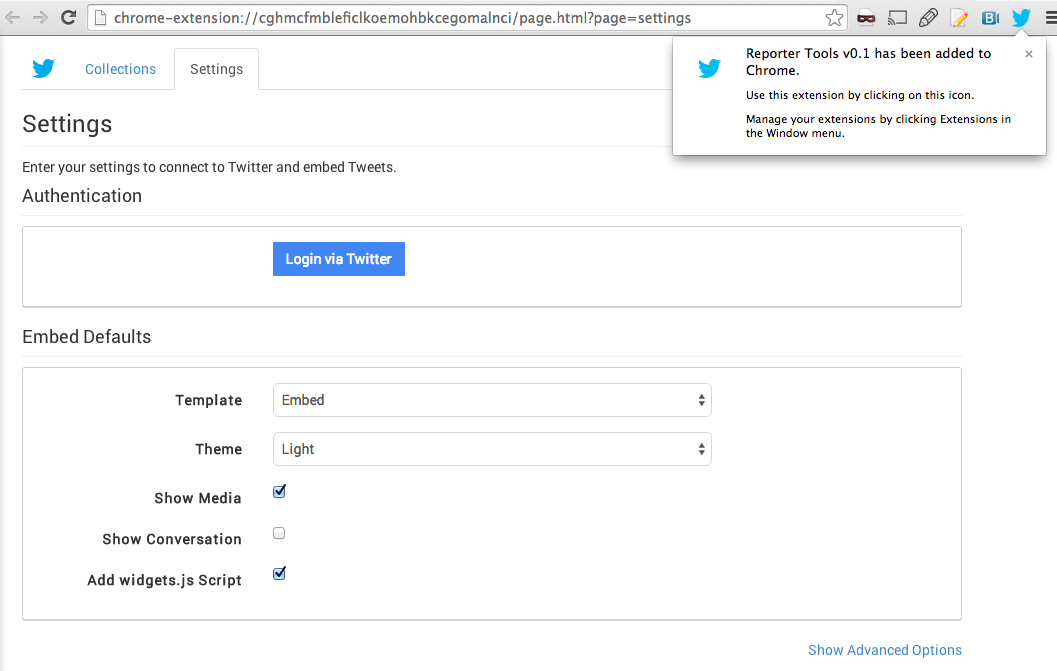
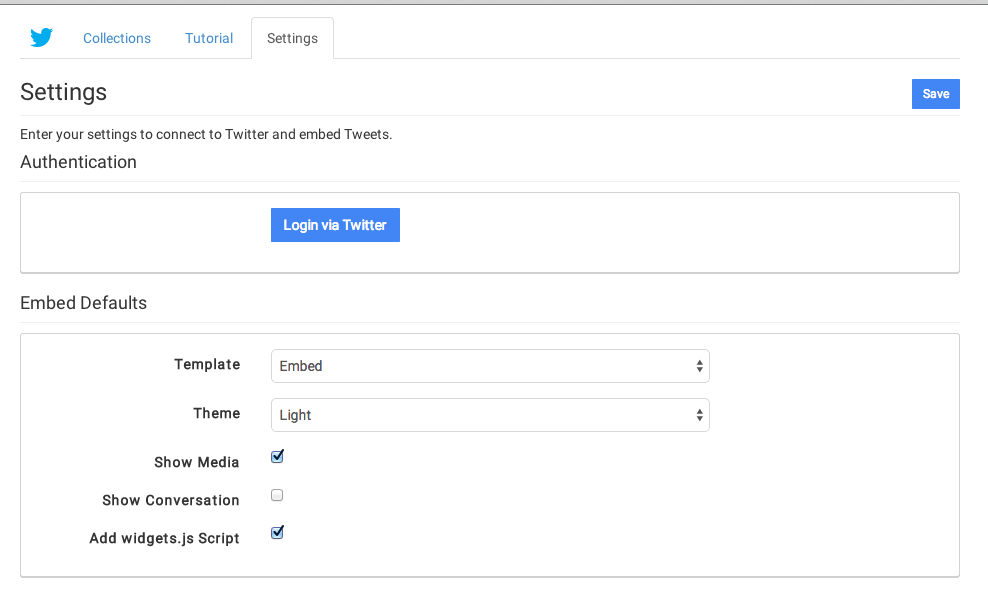
tutorial

diff --git a/page.html b/page.html
@@ -160,15 +160,15 @@
 	  <div role="tabpanel" class="tab-pane" id="tutorial">
 
 	  	<h3>
-	  		Tutorial
+	  		Welcome to the Twitter Reporter Plugin!
 	  	</h3>
 	  	<p>
-	  		Welcome to the Twitter Reporter tool. This plugin helps you curate and embed tweets directly from your Chrome browser.
-	  		
+	  		This tutorial will help you use the tool to curate 
+	  		and embed tweets directly from your Chrome browser.
 	  		<ol>
 	  		 	<li><a href="#tutorial_setup">Setup
-	  		 	<li><a href="#tutorial_curate">Curate Tweets
-	  		 	<li><a href="#tutorial_embed">Embed Tweets
+	  		 	<li><a href="#tutorial_curate">Curate tweets
+	  		 	<li><a href="#tutorial_embed">Embed/manage tweets
   		 	</ol>
 	  	</p>
 	  	
@@ -176,11 +176,17 @@
 	  	<h4>Setup</h4>
 	  	
 	  	<p>
-	  		To use this tool, you must first connect to your Twitter account. Go to the <a href="page.html?page=settings" target="_target">settings page</a>:
+	  		To use this tool, you must first connect to your Twitter account. To access the tool's menu, 
+	  		click on the blue bird icon in your browser menu (to the right of the browser location):   
 
-	  		<img src="img/screen/install_step4.png" class="tutorial">
+	  		<img src="img/screen/action_icon.png" class="tutorial">
 	  		
-	  		After clicking on the "Login via Twitter" button, authorize access and copy the PIN. Be sure to return to the settings page 
+	  		Once the pane is open, go to the <a href="page.html?page=settings" target="_target">settings page</a> and
+	  		click on the "Login via Twitter" button. This will take you to Twitter to login. 
+
+	  		<img src="img/screen/install_step6.png" class="tutorial">
+	  		
+	  		Authorize access and copy the PIN. Be sure to return to the settings page 
 	  		and complete the flow by submitting your PIN:
 	  		
 	  		<img src="img/screen/install_step8.png" class="tutorial">
@@ -188,7 +194,7 @@
 	  	</p> 
 
 		<a name="tutorial_curate"></a>
-	  	<h4>Curating Tweets</h4>
+	  	<h4>Curate Tweets</h4>
 
 	  	<p>
 	  		On each tweet in twitter.com, you will now see a "&plus;" icon below the tweet. 
@@ -205,10 +211,10 @@
 	  	</p> 
 
 		<a name="tutorial_embed"></a>
-	  	<h4>Embedding/Managing Tweets</h4>
+	  	<h4>Embed/manage Tweets</h4>
 
 	  	<p>
-	  		To view your collections, click on the blue Twitter icon in your browser menu (to the right of the browser location):
+	  		To view your collections, click on the blue bird icon in your browser menu (to the right of the browser location):
 	  		
 	  		<img src="img/screen/embed_step0.png" class="tutorial">
 	  		

diff --git a/js/page.js b/js/page.js
@@ -705,6 +705,8 @@ var SettingsPage = {
 					Settings.save(properties, function(){
 						Page.setStatus(status);
 						SettingsPage.setState(true, false);
+						
+						URL.open("tutorial");
 					});
 
 				} else {

diff --git a/css/site.css b/css/site.css
@@ -75,7 +75,7 @@
   img.tutorial {
   	border: 1px solid #aaa;
   	background-color: #eee;
-  	padding: 6px;
+  	padding: 12px;
   	margin: 18px auto 18px 0px;
   	width: 65%;
   	display:block;
